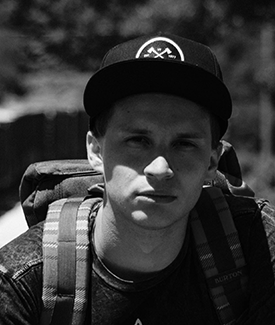
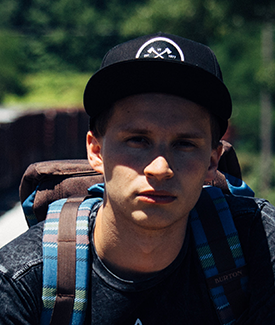
add team section

diff --git a/main.css b/main.css
@@ -84,7 +84,7 @@
     font-family: "Lifehack"; }
 
 .nav {
-  position: absolute;
+  position: fixed;
   left: 80%;
   top: 6%; }
   .nav__list {
@@ -164,15 +164,15 @@
   position: relative;
   width: 25%;
   height: 50%;
-  display: flex;
   justify-content: center;
   align-items: center; }
 .third__pic {
-  width: 100%;
-  height: 100%;
-  filter: grayscale(100%); }
+  max-width: auto;
+  max_hight: auto; }
 
 .picture {
+  filter: grayscale(100%);
+  object-fit: cover;
   width: 100%;
   hight: 100%; }
 

diff --git a/main.scss b/main.scss
@@ -209,20 +209,20 @@ position: fixed;
       position: relative;
     width: 25%;
     height: 50%;
-    display: flex; 
+    
     justify-content: center;   
     align-items: center;
   }
 &__pic {
-     width: 100%;
-    height: 100%;
-  
+    max-width: auto;
+    max_hight: auto;
     
-    filter: grayscale(100%)
 }
 
 }
 .picture {
+  filter: grayscale(100%);
+ object-fit: cover;
   width: 100%;
   hight: 100%;
 }
